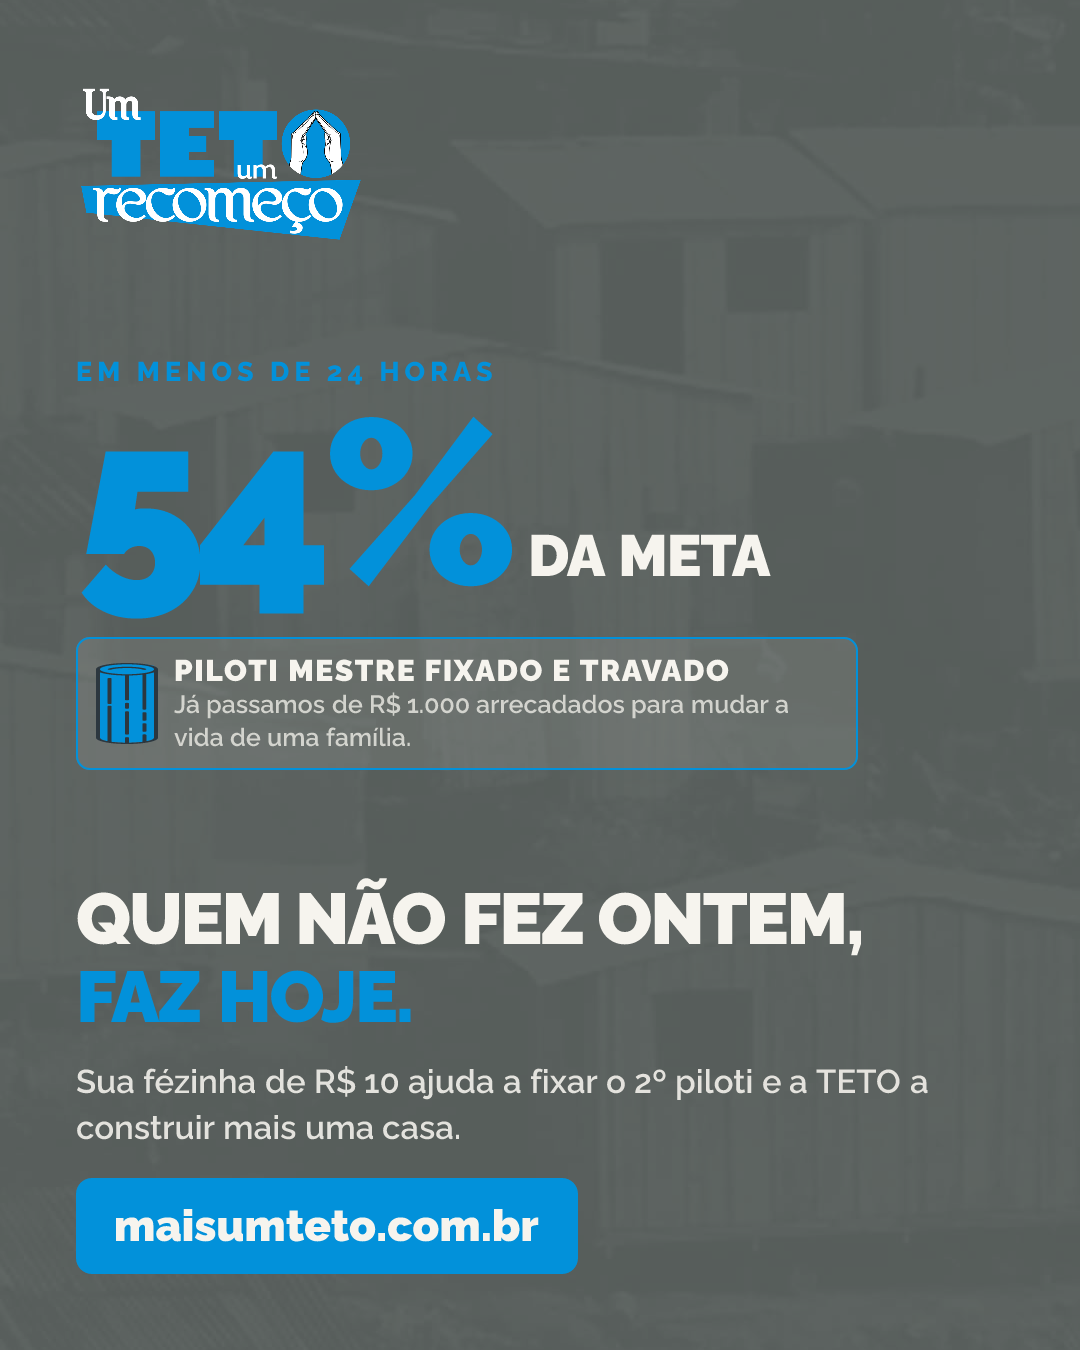
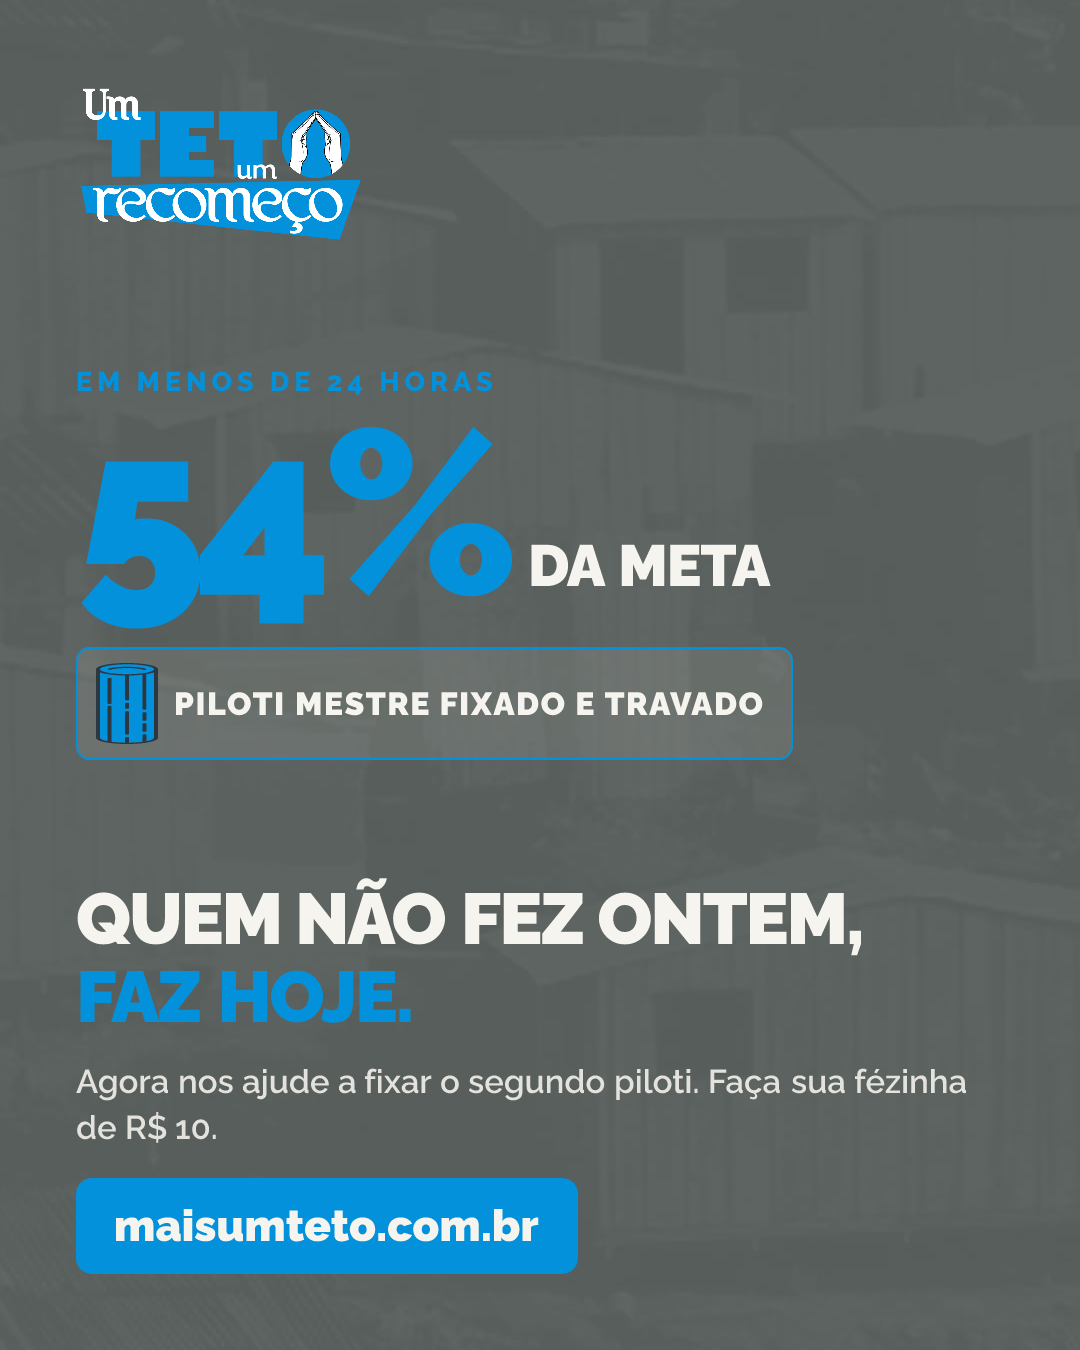
Arte de momentum: selo so com o titulo, nova chamada e % direto do banco
- Selo agora e uma linha so: "PILOTI MESTRE FIXADO E TRAVADO".
- Chamada: "Agora nos ajude a fixar o segundo piloti. Faca sua fezinha de R$ 10."
- FIX: o percentual vinha de um fetch HTTP interno que falhou e fez a arte sair
  com 0% (o catch engolia o erro). Agora le direto do banco via prisma e nao
  mascara falha: melhor nao gerar do que gerar numero mentiroso na divulgacao.

Changed region(s): [[0.0611, 0.2489, 0.7333, 0.56], [0.0611, 0.7778, 0.8861, 0.84]]

diff --git a/src/app/api/divulgacao/route.tsx b/src/app/api/divulgacao/route.tsx
@@ -1,6 +1,8 @@
 import { ImageResponse } from "next/og";
+import { prisma } from "@/lib/db";
 
 export const runtime = "nodejs";
+export const dynamic = "force-dynamic";
 
 // TEMPORÁRIO: gera as opções de material de divulgação (1080x1350).
 // Usa a mesma tipografia/assets do cartão. ?v=1..4
@@ -51,17 +53,17 @@ export async function GET(req: Request) {
   const botaoPiloti = uri(botaoB, "image/svg+xml");
   const pilotiMestre = uri(mestreB, "image/svg+xml");
 
-  // Percentual REAL da campanha (pra arte nunca sair com número errado).
-  let pct = 0;
-  try {
-    const r = await fetch(`${proto}://${fetchHost}/api/progresso`, {
-      cache: "no-store",
-    });
-    const d = await r.json();
-    pct = Number(d?.pct) || 0;
-  } catch {
-    // sem número: a arte ainda renderiza
-  }
+  // Percentual REAL da campanha, direto do banco (sem chamada HTTP interna,
+  // que já falhou e fez a arte sair com 0%). Se o banco falhar, joga o erro:
+  // é melhor não gerar do que gerar um número mentiroso pra divulgação.
+  const metaCentavos =
+    parseInt(process.env.META_CENTAVOS || "200000", 10) || 200000;
+  const somaPagas = await prisma.casinha.aggregate({
+    where: { status: "PAGO" },
+    _sum: { valorTotalCentavos: true },
+  });
+  const arrecadado = somaPagas._sum.valorTotalCentavos || 0;
+  const pct = Math.min(100, Math.floor((arrecadado / metaCentavos) * 100));
 
   const fonts = [
     f600 && { name: "Raleway", data: f600, weight: 600 as const, style: "normal" as const },
@@ -411,14 +413,8 @@ export async function GET(req: Request) {
           >
             {/* eslint-disable-next-line @next/next/no-img-element */}
             <img src={pilotiMestre} width={62} height={81} alt="" style={{ flexShrink: 0 }} />
-            <div style={{ display: "flex", flexDirection: "column", maxWidth: "660px" }}>
-              <div style={{ display: "flex", fontSize: "30px", fontWeight: 900, letterSpacing: "1.5px", whiteSpace: "nowrap" }}>
-                PILOTI MESTRE FIXADO E TRAVADO
-              </div>
-              <div style={{ display: "flex", fontSize: "25px", fontWeight: 600, lineHeight: 1.3, color: "rgba(246,244,238,0.75)" }}>
-                Já passamos de R$ 1.000 arrecadados para mudar a vida de uma
-                família.
-              </div>
+            <div style={{ display: "flex", fontSize: "32px", fontWeight: 900, letterSpacing: "1.5px", whiteSpace: "nowrap" }}>
+              PILOTI MESTRE FIXADO E TRAVADO
             </div>
           </div>
 
@@ -438,7 +434,7 @@ export async function GET(req: Request) {
           </div>
           <div style={{ display: "flex", height: "22px" }} />
           <div style={{ display: "flex", fontSize: "33px", fontWeight: 600, lineHeight: 1.4, color: "rgba(246,244,238,0.88)" }}>
-            Sua fézinha de R$ 10 ajuda a fixar o 2º piloti e a TETO a construir mais uma casa.
+            Agora nos ajude a fixar o segundo piloti. Faça sua fézinha de R$ 10.
           </div>
           <div style={{ display: "flex", height: "28px" }} />
           <div style={cta(AZUL)}>{host}</div>